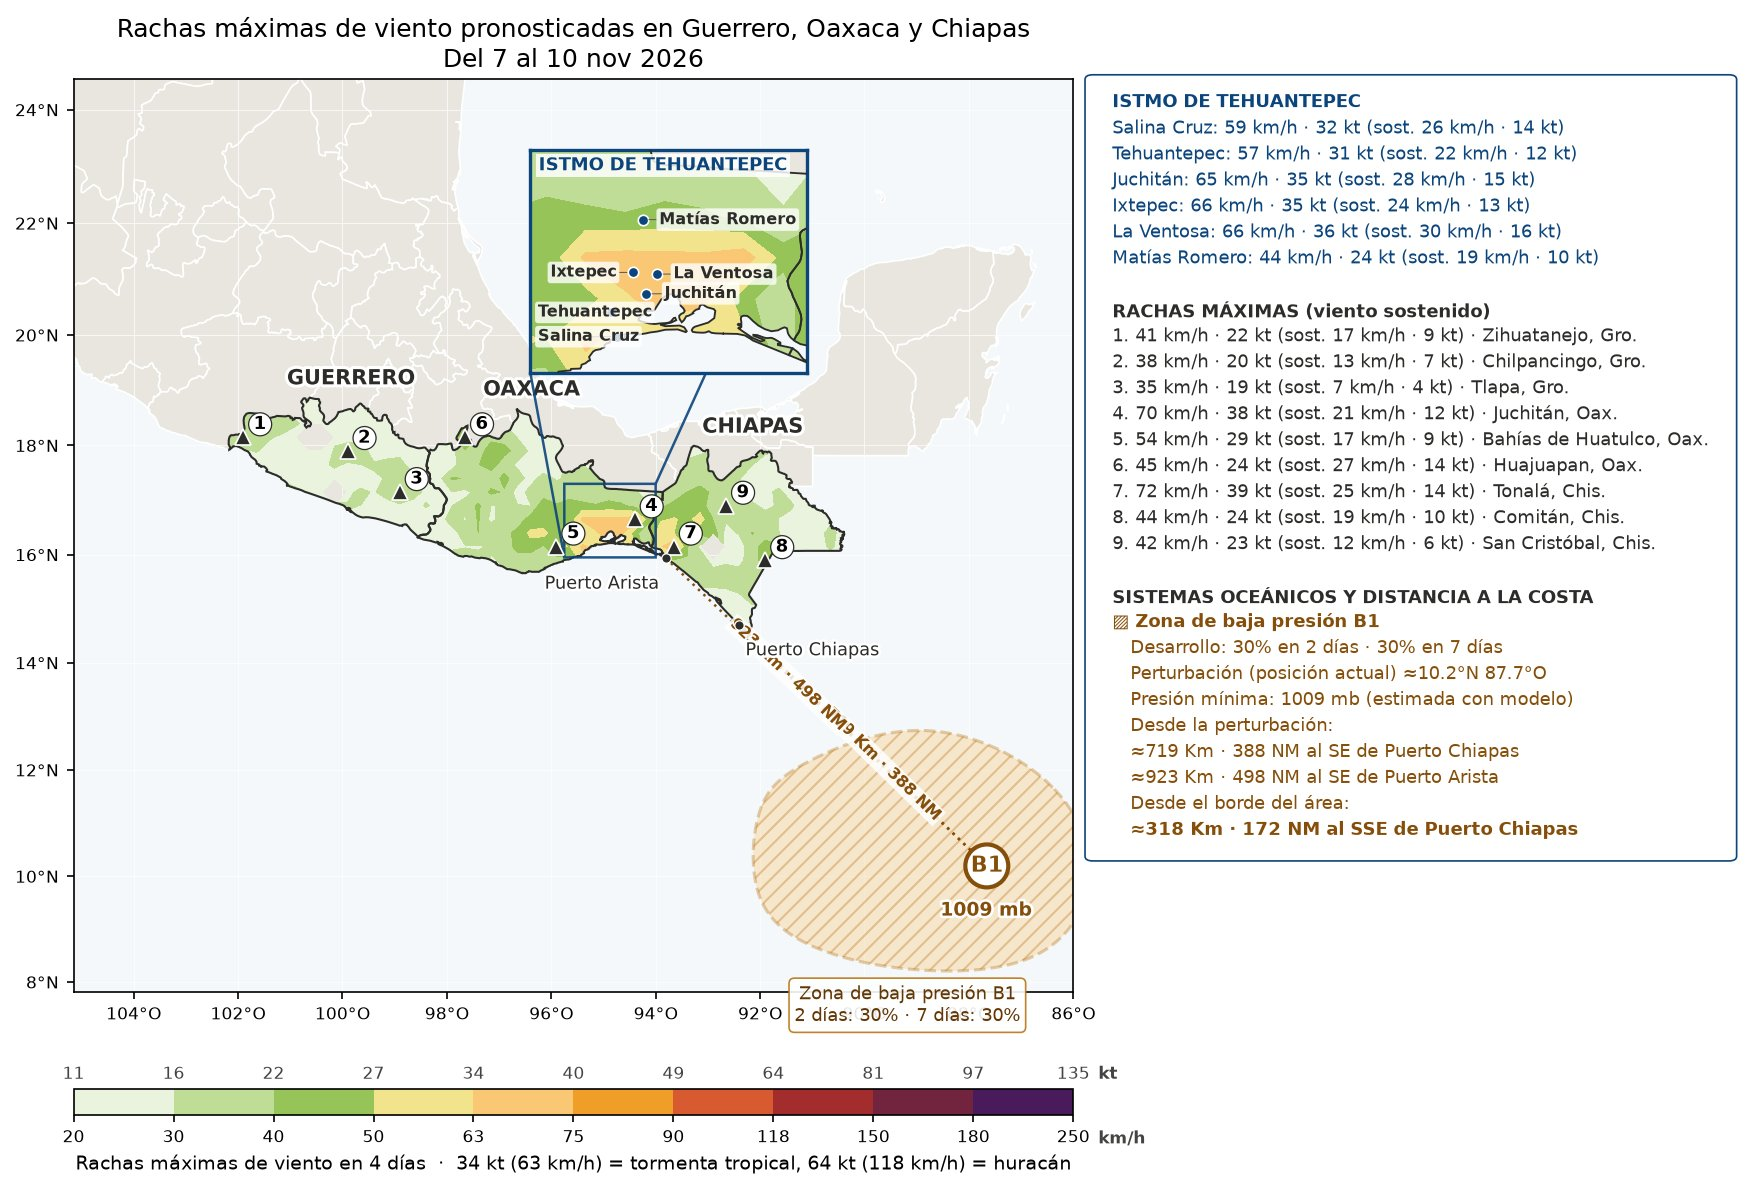
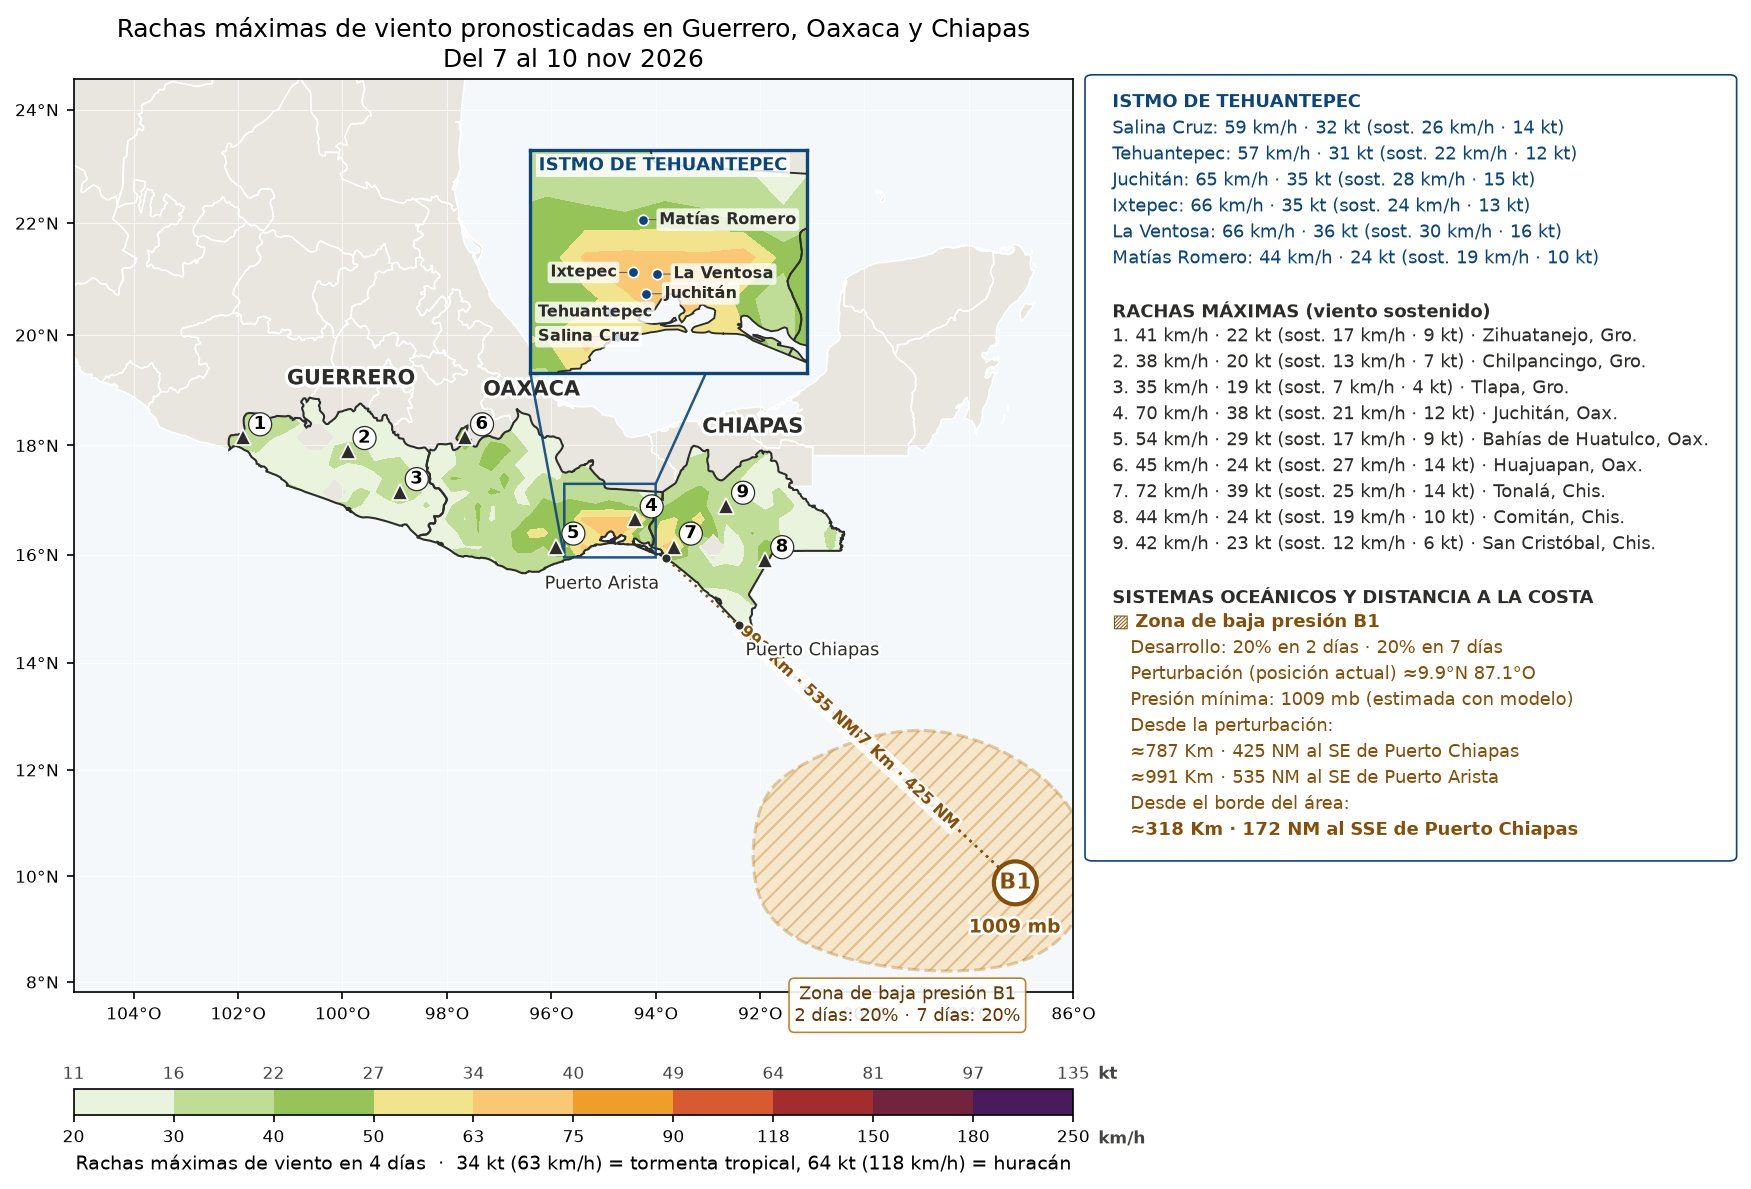
Monitor 07/11 11:37 (mapas nuevos)

diff --git a/index.html b/index.html
@@ -62,7 +62,7 @@ pre{overflow-x:auto;font-size:.75rem;background:var(--bg);padding:10px;border-ra
 <section class="t" id="sec_log"><details><summary>Registro (últimas líneas)</summary><pre id="log"></pre></details></section>
 </main>
 <div id="zoom"><img alt=""></div>
-<script id="datos" type="application/json">{"generado": "2026-11-07T11:17:04.350154", "ultima_revision": "2026-11-07T11:17:04.291368", "decision": "sin cambios", "ultima_imagen": "2026-11-07T10:00:13.095070", "motivo_imagen": "cambios acumulados en 3 h: modelo", "pendientes": [], "intervalo_h": 3, "resumen": {"ciclones": {}, "zonas": [{"lat": 10.2, "lon": -87.7, "n": "1", "p2": 30, "p7": 30}]}, "historial": [{"fecha": "2026-11-05T15:00:14.907001", "motivo": "cambios acumulados en 3 h: modelo"}, {"fecha": "2026-11-05T17:47:16.654961", "motivo": "CAMBIO SIGNIFICATIVO: zona de baja presión: 40/50% → 40/40% (2/7 días)"}, {"fecha": "2026-11-05T21:00:07.785836", "motivo": "cambios acumulados en 3 h: modelo"}, {"fecha": "2026-11-06T00:07:18.516460", "motivo": "cambios acumulados en 3 h: zonas"}, {"fecha": "2026-11-06T03:20:16.865587", "motivo": "cambios acumulados en 3 h: modelo"}, {"fecha": "2026-11-06T06:27:18.371045", "motivo": "cambios acumulados en 3 h: zonas"}, {"fecha": "2026-11-06T09:40:10.112780", "motivo": "cambios acumulados en 3 h: modelo"}, {"fecha": "2026-11-06T11:37:17.169772", "motivo": "CAMBIO SIGNIFICATIVO: zona de baja presión: 40/40% → 30/30% (2/7 días)"}, {"fecha": "2026-11-06T14:50:22.502540", "motivo": "cambios acumulados en 3 h: modelo"}, {"fecha": "2026-11-06T18:07:20.063705", "motivo": "cambios acumulados en 3 h: zonas"}, {"fecha": "2026-11-06T21:20:13.746060", "motivo": "cambios acumulados en 3 h: modelo"}, {"fecha": "2026-11-07T00:27:15.808029", "motivo": "cambios acumulados en 3 h: zonas"}, {"fecha": "2026-11-07T03:40:12.642258", "motivo": "cambios acumulados en 3 h: modelo"}, {"fecha": "2026-11-07T06:47:15.590117", "motivo": "cambios acumulados en 3 h: zonas"}, {"fecha": "2026-11-07T10:00:13.095070", "motivo": "cambios acumulados en 3 h: modelo"}], "imagenes": {"lluvia": {"src": "lluvia.jpg?v=202611071000", "fecha": "2026-11-07T10:00:06.346652"}, "viento": {"src": "viento.jpg?v=202611071000", "fecha": "2026-11-07T10:00:11.501216"}}, "log": [], "umbral_av": 50, "umbral_mal": 110}</script>
+<script id="datos" type="application/json">{"generado": "2026-11-07T11:37:16.709230", "ultima_revision": "2026-11-07T11:37:16.646771", "decision": "imágenes generadas", "ultima_imagen": "2026-11-07T11:37:16.646771", "motivo_imagen": "CAMBIO SIGNIFICATIVO: zona de baja presión: 30/30% → 20/20% (2/7 días)", "pendientes": [], "intervalo_h": 3, "resumen": {"ciclones": {}, "zonas": [{"lat": 9.9, "lon": -87.1, "n": "1", "p2": 20, "p7": 20}]}, "historial": [{"fecha": "2026-11-05T17:47:16.654961", "motivo": "CAMBIO SIGNIFICATIVO: zona de baja presión: 40/50% → 40/40% (2/7 días)"}, {"fecha": "2026-11-05T21:00:07.785836", "motivo": "cambios acumulados en 3 h: modelo"}, {"fecha": "2026-11-06T00:07:18.516460", "motivo": "cambios acumulados en 3 h: zonas"}, {"fecha": "2026-11-06T03:20:16.865587", "motivo": "cambios acumulados en 3 h: modelo"}, {"fecha": "2026-11-06T06:27:18.371045", "motivo": "cambios acumulados en 3 h: zonas"}, {"fecha": "2026-11-06T09:40:10.112780", "motivo": "cambios acumulados en 3 h: modelo"}, {"fecha": "2026-11-06T11:37:17.169772", "motivo": "CAMBIO SIGNIFICATIVO: zona de baja presión: 40/40% → 30/30% (2/7 días)"}, {"fecha": "2026-11-06T14:50:22.502540", "motivo": "cambios acumulados en 3 h: modelo"}, {"fecha": "2026-11-06T18:07:20.063705", "motivo": "cambios acumulados en 3 h: zonas"}, {"fecha": "2026-11-06T21:20:13.746060", "motivo": "cambios acumulados en 3 h: modelo"}, {"fecha": "2026-11-07T00:27:15.808029", "motivo": "cambios acumulados en 3 h: zonas"}, {"fecha": "2026-11-07T03:40:12.642258", "motivo": "cambios acumulados en 3 h: modelo"}, {"fecha": "2026-11-07T06:47:15.590117", "motivo": "cambios acumulados en 3 h: zonas"}, {"fecha": "2026-11-07T10:00:13.095070", "motivo": "cambios acumulados en 3 h: modelo"}, {"fecha": "2026-11-07T11:37:16.646771", "motivo": "CAMBIO SIGNIFICATIVO: zona de baja presión: 30/30% → 20/20% (2/7 días)"}], "imagenes": {"lluvia": {"src": "lluvia.jpg?v=202611071137", "fecha": "2026-11-07T11:37:10.348743"}, "viento": {"src": "viento.jpg?v=202611071137", "fecha": "2026-11-07T11:37:15.120268"}}, "log": [], "umbral_av": 50, "umbral_mal": 110}</script>
 <script>
 const D = JSON.parse(document.getElementById("datos").textContent);
 const $ = id => document.getElementById(id);
